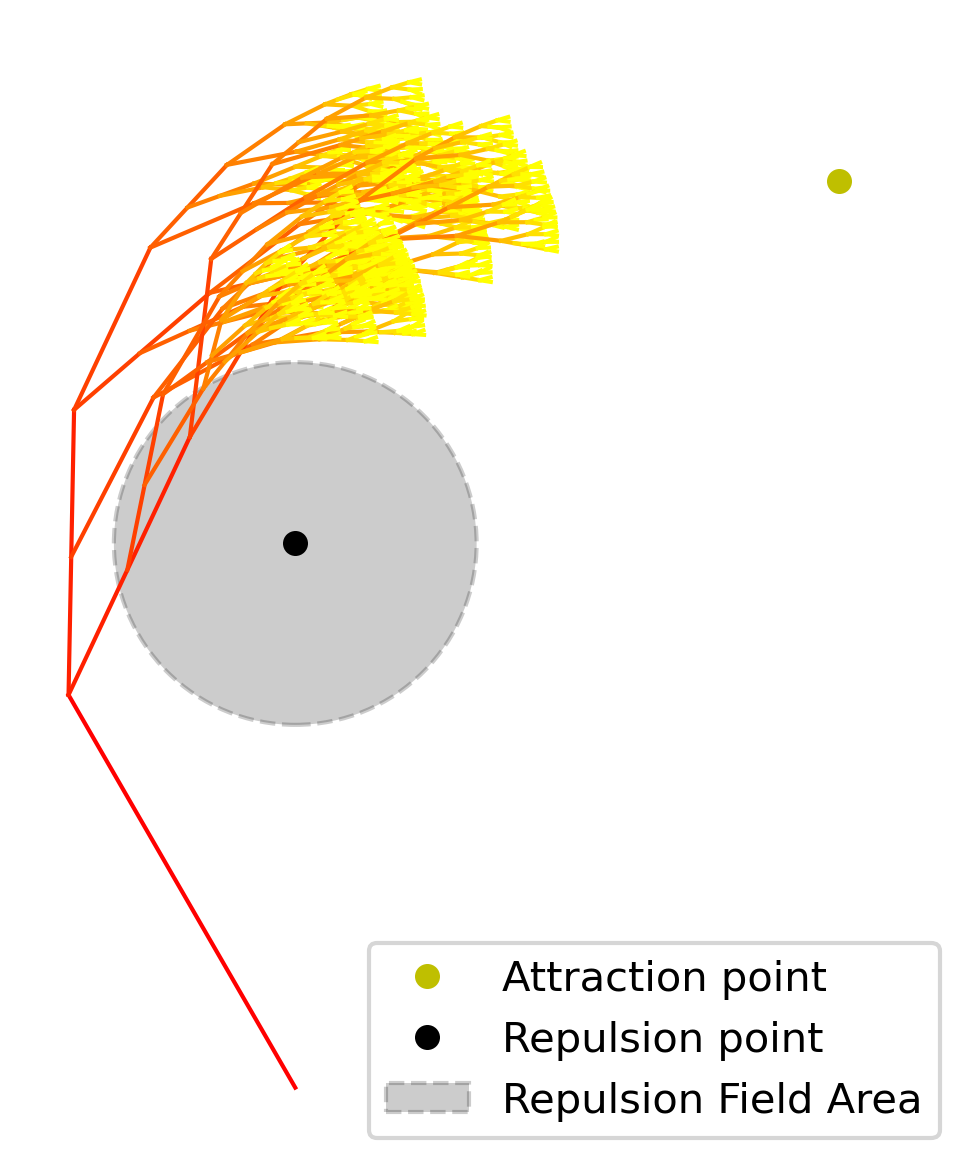
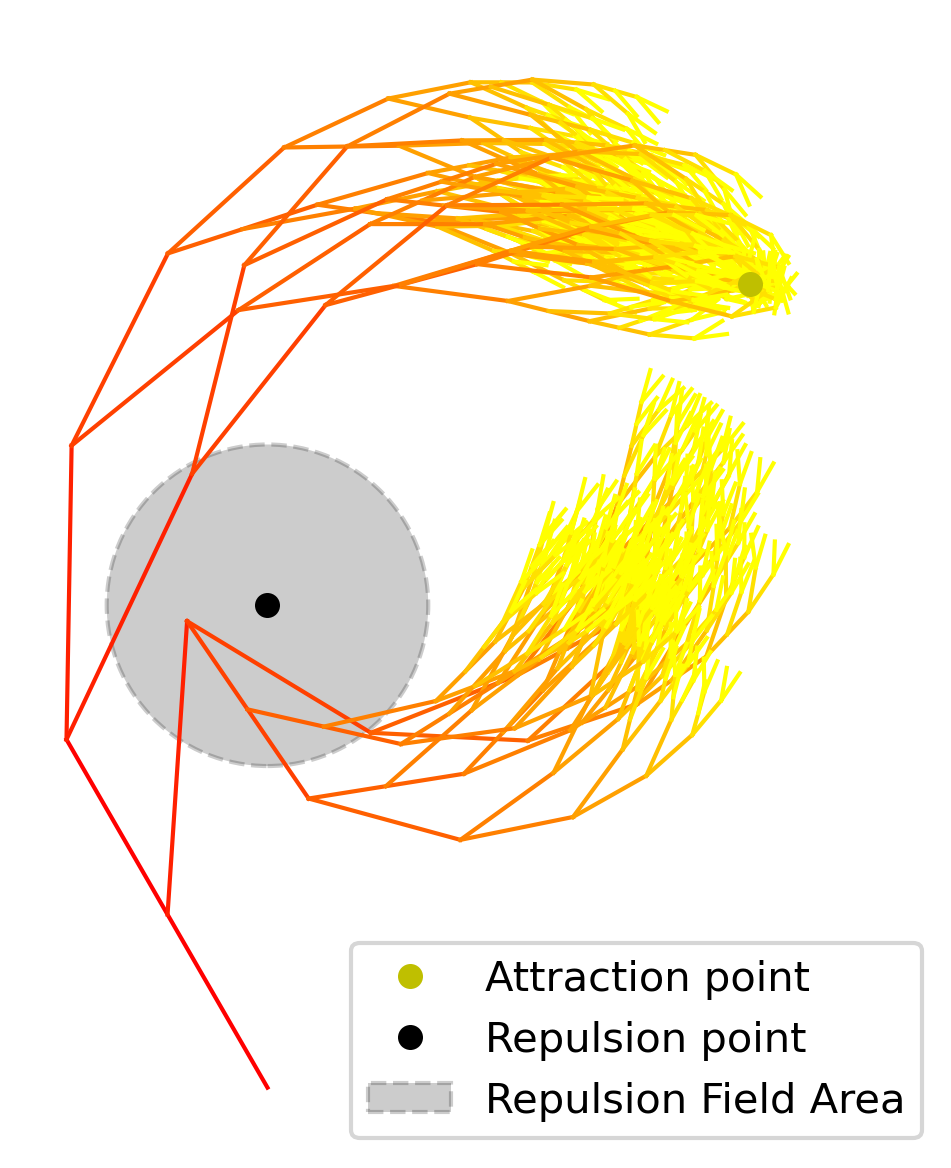
Fixed a few incorrect references
Fixed incorrect image references for example 2 and 6

diff --git a/fractal_generator.py b/fractal_generator.py
@@ -29,13 +29,13 @@ random.seed(seed_value)
 print("Seed used this iteration:", seed_value)
 
 # Add attraction point and repulsion field (x,y)
-attraction_point = (120,200) # Point for the L-system to biasly grow towards
+attraction_point = (-200,350) # Point for the L-system to biasly grow towards
 repulsion_field_center = (0,120) # Point for the L-system to biasly grow away from
-repulsion_field_radius = 40
+repulsion_field_radius = 75
 
 # Add the probability of the bias (0-0.5 (if one bias is set to 0 the other can be chosen in range 0-1))
-attraction_bias = 0.5
-repulsion_bias = 0.4
+attraction_bias = 0.2
+repulsion_bias = 0.0
 
 # Global list to store all line segments
 line_list = []
@@ -117,7 +117,7 @@ def get_color(depth, max_depth):
 if __name__ == "__main__":
     # Parameters
     start_point = (0, 0)
-    initial_angle = 120
+    initial_angle = 90
     initial_length = 100
     recursion_depth = 0
     max_recursion_depth = 8
@@ -146,14 +146,14 @@ if __name__ == "__main__":
 
     # Optional: Customize the plot
     ax.plot(attraction_point[0],attraction_point[1], 'yo', markersize=5, label = "Attraction point")
-    ax.plot(repulsion_field_center[0],repulsion_field_center[1], 'ko', markersize=5, label = "Repulsion point")
-    ax.set_aspect('equal')
-    repulsion_field = plt.Circle(repulsion_field_center, repulsion_field_radius, color = 'black', alpha = 0.2, linestyle = '--', linewidth = 1, label = "Repulsion Field Area")
-    ax.add_patch(repulsion_field)
+    # ax.plot(repulsion_field_center[0],repulsion_field_center[1], 'ko', markersize=5, label = "Repulsion point")
+    # ax.set_aspect('equal')
+    # repulsion_field = plt.Circle(repulsion_field_center, repulsion_field_radius, color = 'black', alpha = 0.2, linestyle = '--', linewidth = 1, label = "Repulsion Field Area")
+    # ax.add_patch(repulsion_field)
     ax.set_aspect('equal')
     plt.axis('off')
     plt.legend(loc=(0.4,0))
     plt.show()
 
     # Save the figure
-    fig.savefig('images/fractal_tree-example_6.png', dpi=300, bbox_inches='tight')
+    fig.savefig('images/fractal_tree-example_2.png', dpi=300, bbox_inches='tight')
